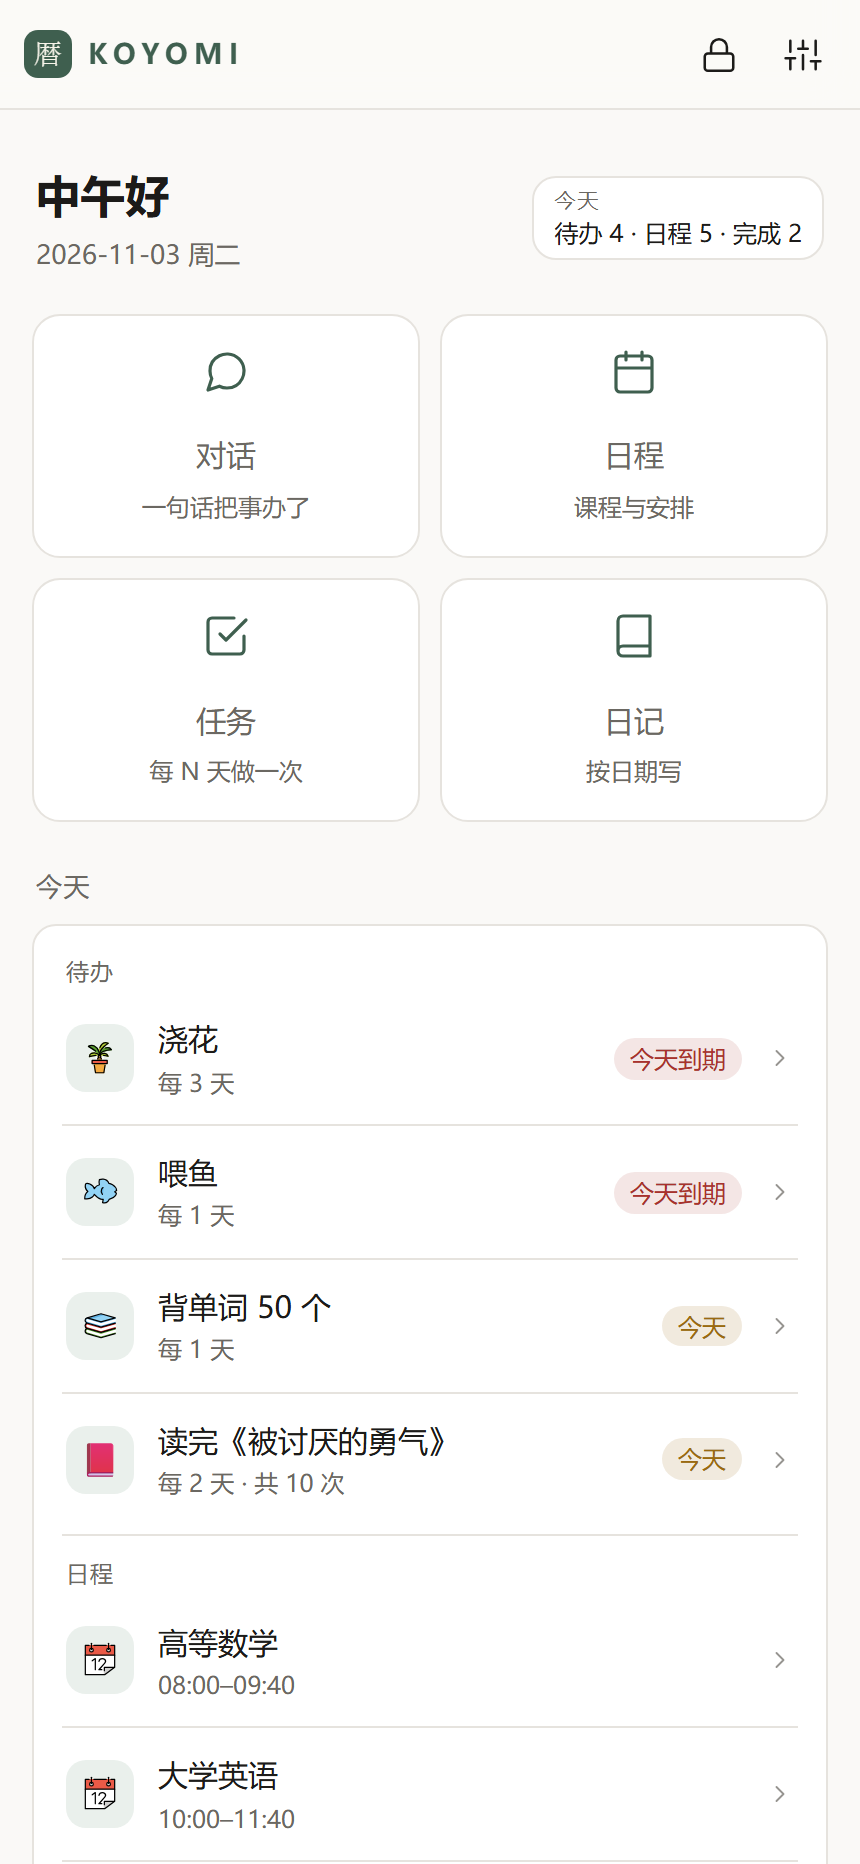
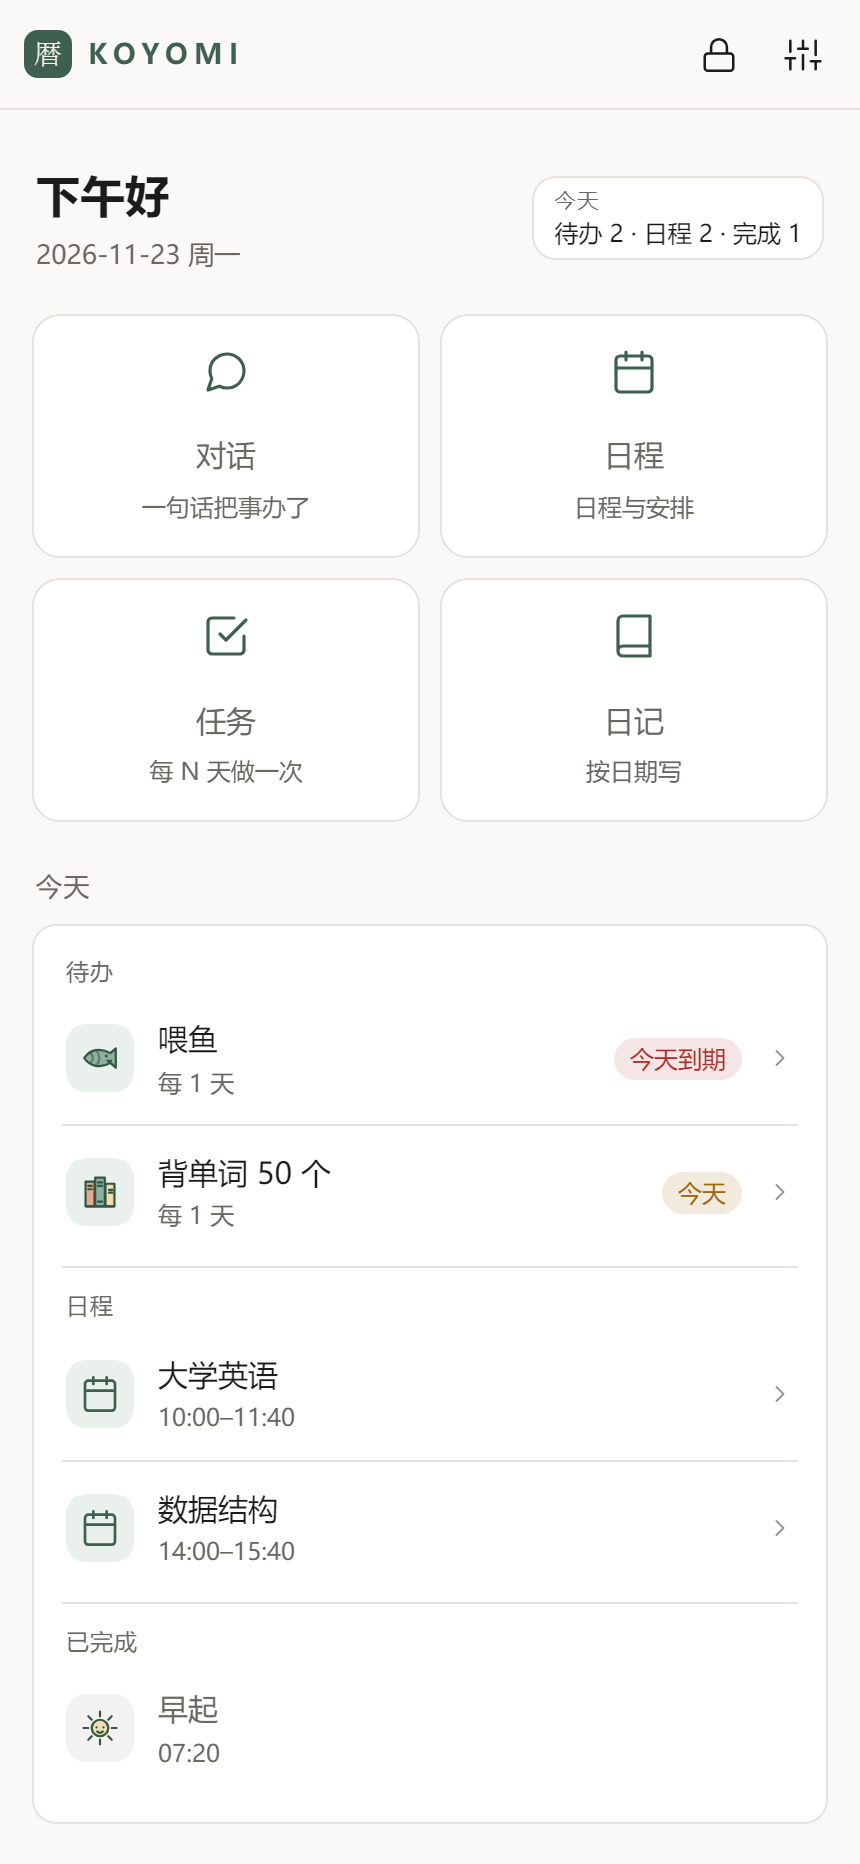
docs(readme): 更新截图并移除旧图标许可
- 首页与日程页截图换成 1.0.3 的界面（860×1864，常规手机一屏）
- 删掉 1.0.1 及更早版本的 OpenMoji / CC BY-SA 4.0 说明与结尾引用

diff --git a/README.md b/README.md
@@ -220,8 +220,6 @@ npm test        # 17 个文件 / 203 条，全绿
 代码是 MIT（见 [LICENSE](LICENSE)），但下面这些资源各有各的许可：
 
 - **任务图标**（`src/assets/task-icons/`）：本项目自绘，随代码按 MIT 授权（1.0.2 起）。
-  1.0.1 及更早版本用的是 [OpenMoji](https://openmoji.org/)，图形部分按 **CC BY-SA 4.0** 授权：
-  > All emojis designed by OpenMoji – the open-source emoji and icon project. License: CC BY-SA 4.0
 - **节假日与调休**：内置的 2026 年数据依据国办发明电〔2025〕7 号；联网更新用 [holiday-cn](https://github.com/NateScarlet/holiday-cn)（MIT）。
 - **二十四节气表**：用 [lunar-javascript](https://github.com/6tail/lunar-javascript)（MIT）离线算好后写进代码，运行时不引依赖。
 - **农历**：浏览器内置的 `Intl.DateTimeFormat`，没有第三方数据。
@@ -229,4 +227,4 @@ npm test        # 17 个文件 / 203 条，全绿
 
 ## 许可
 
-代码与自绘图标以 [MIT](LICENSE) 授权（© 2026 Ayayaneru）；旧版 OpenMoji 图标的许可见上一节。
+代码与自绘图标以 [MIT](LICENSE) 授权（© 2026 Ayayaneru）。
